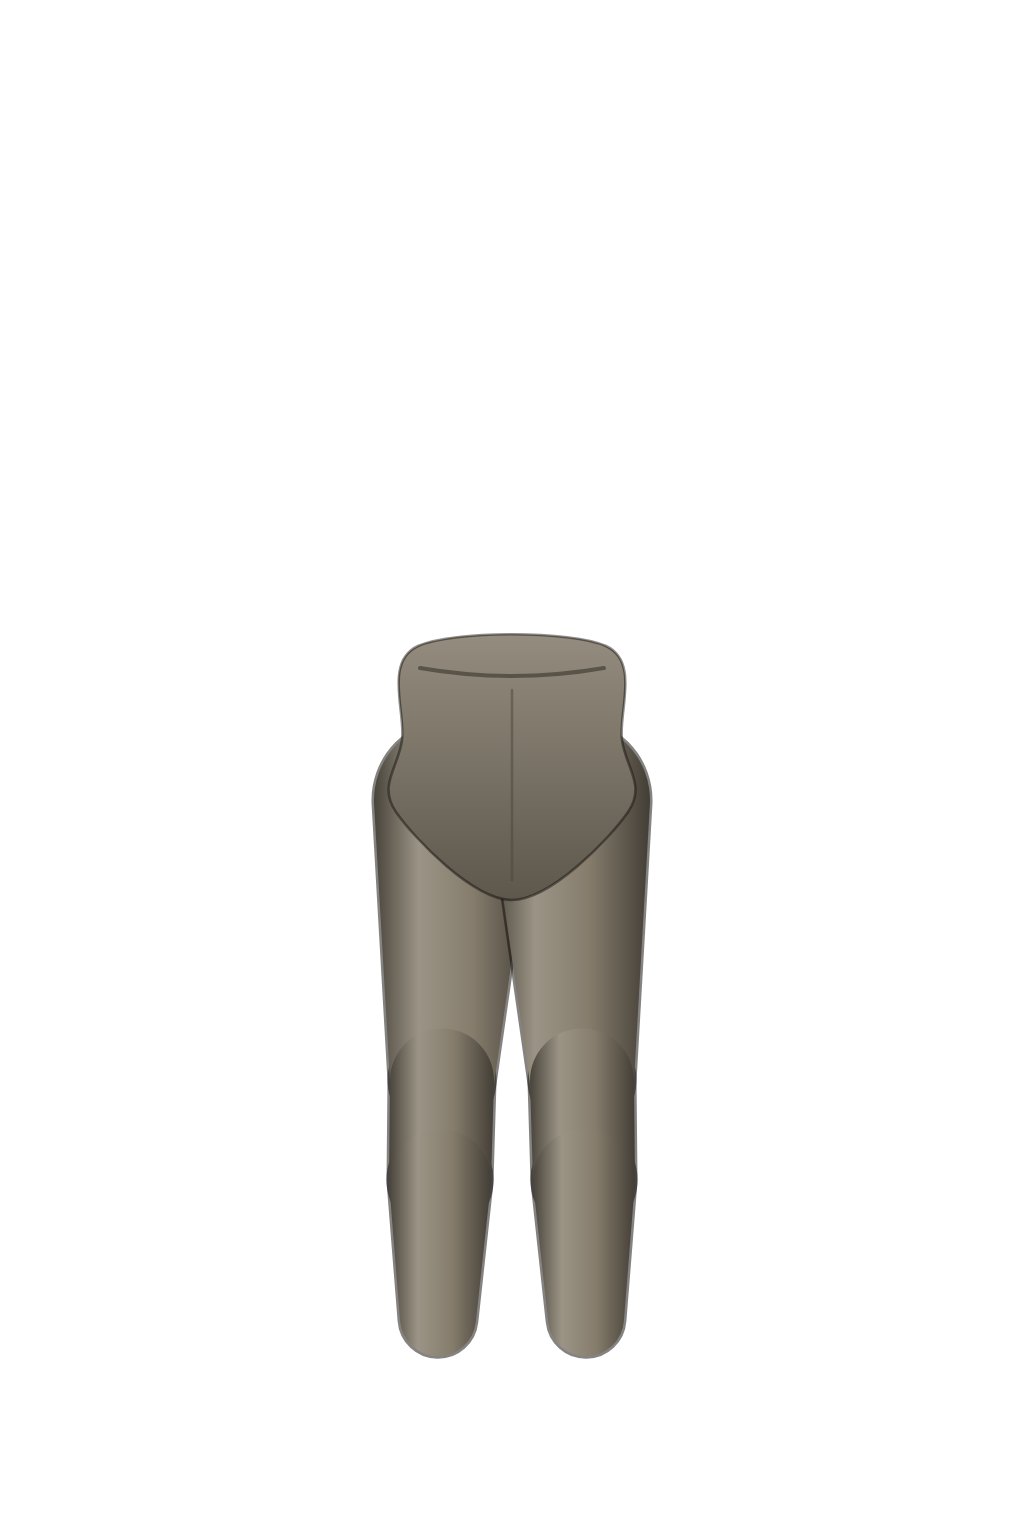
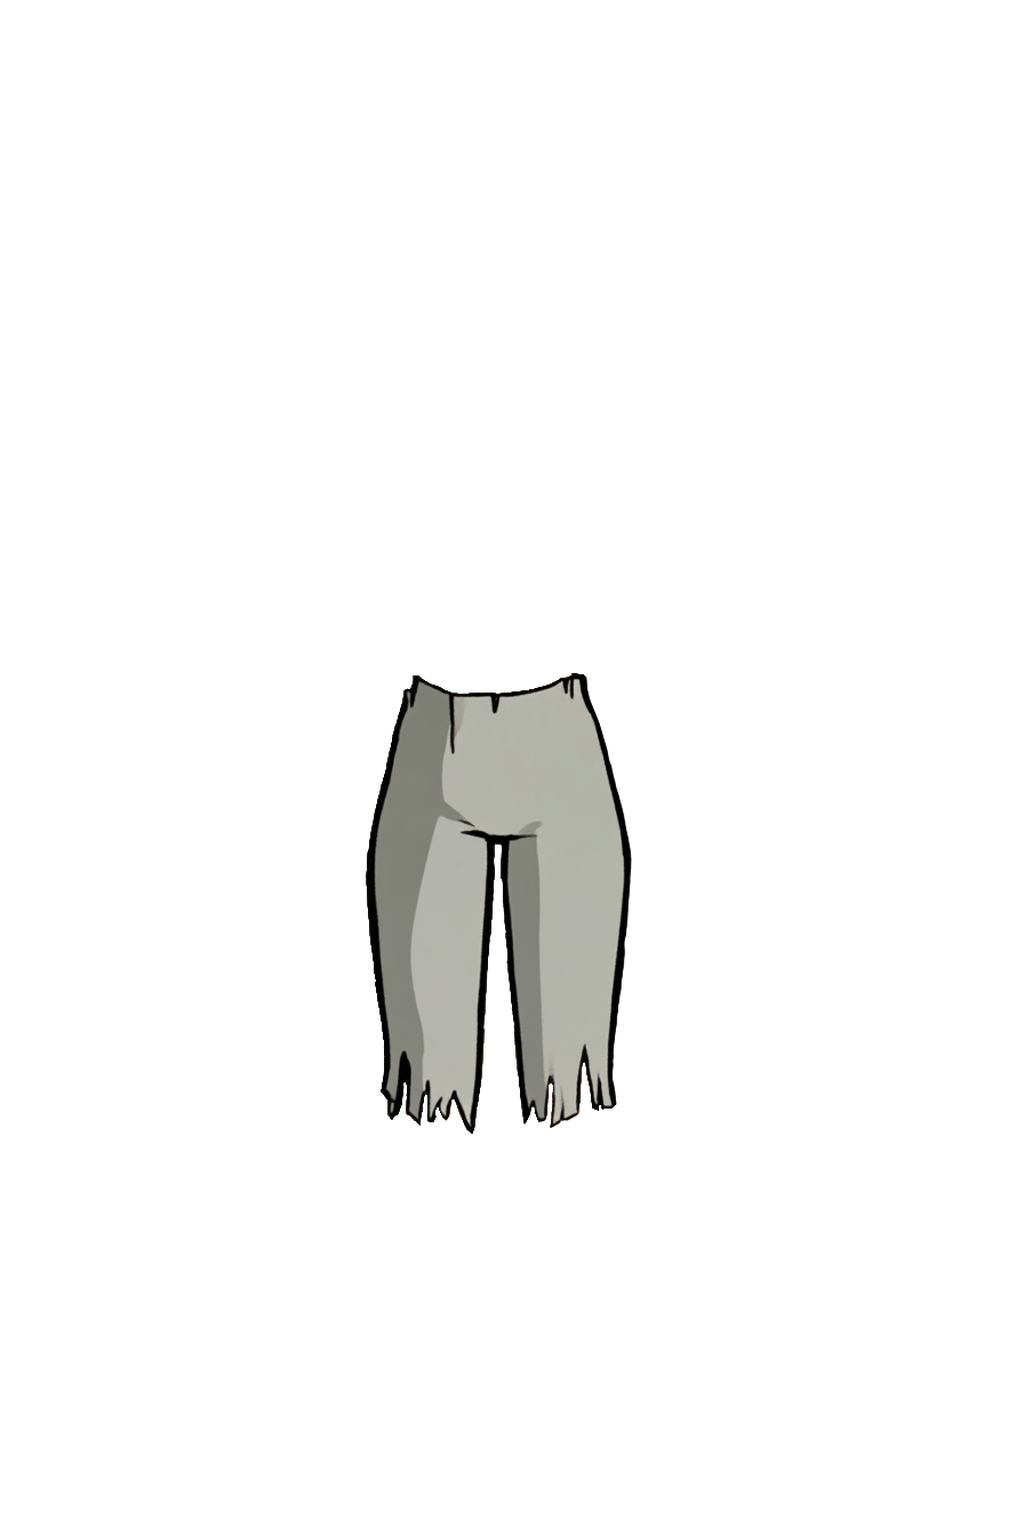
Envoy 3.6: the Envoy is a woman, drawn by the user
Her drawings replace the placeholder figure: the base figure, the
starter outfit (Leinenhemd, Leinenhose) and the new Griffhandschuhe,
the reward for the bridge. The layers were cleaned of stray specks and
scaled to 1024 x 1536; the icons are cut free from the same drawings.

The starter outfit is worn from the start (herkunft 'angezogen').
All placeholder layers and item icons are gone: an item without a
picture is worn but not drawn, and shows the symbol of its slot. The
converter lists missing pictures as hints and leaves their path empty.

Claude-Session: https://claude.ai/code/session_0117M4aYJ5RoPwj7oU8m6XcB

Changed region(s): [[0.3438, 0.4062, 0.6562, 0.9062]]

diff --git a/js/ui/parts.js b/js/ui/parts.js
@@ -1,7 +1,7 @@
 // Small building blocks used by several views.
 
 import { h, icon } from './dom.js';
-import { NAV_ICONS, RESOURCE_ICONS } from './icons.js';
+import { NAV_ICONS, RESOURCE_ICONS, SLOT_ICONS } from './icons.js';
 import { statEmblem, statInfo } from './stats.js';
 import { shield } from './shield.js';
 import { MATERIALS } from '../config.js';
@@ -70,7 +70,9 @@ export function staminaBar(st) {
     h('p', { class: 'stamina-note' }, refillText(st.hoursToFull)));
 }
 
+// The picture of a thing. Without one yet, the symbol of its slot.
 export function itemIcon(thing, className = 'item-icon') {
+  if (!thing.icon) return thing.slot ? icon(SLOT_ICONS[thing.slot], `${className} item-glyph`) : h('span', { class: className });
   return h('img', { class: className, src: thing.icon, alt: '', decoding: 'async', onerror: (e) => { e.currentTarget.hidden = true; } });
 }
 

diff --git a/js/ui/paperdoll.js b/js/ui/paperdoll.js
@@ -1,6 +1,7 @@
 // The figure: transparent layers of identical size stacked on top of each
 // other. Only worn items are drawn; an item whose requirement is no longer
 // met has already been taken off, so the slot shows the base figure.
+// An item without a picture yet is worn but not drawn.
 
 import { h } from './dom.js';
 import { SLOTS, BASE_FIGURE_LAYER, BASE_FIGURE_FILE } from '../config.js';
@@ -10,7 +11,7 @@ export function paperdoll(equipped, world, catalog, { className = '' } = {}) {
   for (const slot of SLOTS) {
     const entry = world.items[equipped[slot.id]];
     const item = entry && catalog.itemById.get(entry.id);
-    if (item) layers.push({ layer: slot.layer, src: item.figur, slot: slot.id });
+    if (item?.figur) layers.push({ layer: slot.layer, src: item.figur, slot: slot.id });
   }
   layers.sort((a, b) => a.layer - b.layer);
 

diff --git a/js/world/worldstate.js b/js/world/worldstate.js
@@ -48,9 +48,14 @@ export function initialWorld(catalog, startTime, stats) {
     reports: [],
     dropped: [],
   };
-  for (const item of catalog.equipment.filter((i) => i.herkunft.includes('start'))) {
+  // The start outfit (herkunft `angezogen`) is worn from the beginning,
+  // other start things (`start`) lie in the backpack.
+  for (const item of catalog.equipment) {
+    const worn = item.herkunft.includes('angezogen');
+    if (!worn && !item.herkunft.includes('start')) continue;
     const inst = `start:${item.id}`;
-    world.items[inst] = { inst, kind: 'item', id: item.id, where: 'rucksack', got: startTime };
+    world.items[inst] = { inst, kind: 'item', id: item.id, where: worn ? 'body' : 'rucksack', got: startTime };
+    if (worn) world.equipped[item.slot] = inst;
   }
   return world;
 }

diff --git a/css/envoy.css b/css/envoy.css
@@ -845,6 +845,8 @@ button.task-check:hover { color: var(--stat); }
 }
 .slot-frame .item-icon { width: 50px; height: 50px; }
 .slot-glyph { width: 26px; height: 26px; color: #37535b; --engrave: rgba(4, 12, 14, 0.6); }
+.item-glyph { display: grid; place-items: center; padding: 18%; color: var(--teal); --engrave: rgba(4, 12, 14, 0.6); }
+.item-glyph svg { width: 100%; height: 100%; }
 .slot.filled .slot-frame { box-shadow: inset 0 2px 6px rgba(0, 0, 0, 0.7), inset 0 0 0 1px rgba(236, 222, 196, 0.18), 0 1px 0 rgba(244, 236, 222, 0.04); }
 .slot-label { max-width: 64px; font-size: 9px; letter-spacing: 0.1em; line-height: 1.1; text-align: center; text-transform: uppercase; color: var(--muted); }
 .facts { margin: 0; display: grid; }

diff --git a/js/config.js b/js/config.js
@@ -1,7 +1,7 @@
 // Fixed values of the game. Everything the rules depend on lives here,
 // so it can be checked in one place against docs/spezifikation.md.
 
-export const APP_VERSION = '3.5.0';
+export const APP_VERSION = '3.6.0';
 
 // The four stats, in display order. `area` is the real-life daily task.
 export const STATS = [

diff --git a/sw.js b/sw.js
@@ -2,7 +2,7 @@
 // Network first, so a new version on the server is used right away;
 // if the network does not answer in time, the stored copy is used.
 
-const CACHE = 'envoy-v9';
+const CACHE = 'envoy-v10';
 const NETWORK_TIMEOUT_MS = 3500;
 
 self.addEventListener('install', () => self.skipWaiting());

diff --git a/tools/convert_data.py b/tools/convert_data.py
@@ -35,7 +35,7 @@ SLOTS = ["umhang", "beine", "schuhe", "torso", "handschuhe", "kopf"]
 MEASUREMENTS = ["strecke_km", "stockwerke", "haltezeit_s", "wiederholungen", "dauer_min"]
 EFFECTS = ["schaden", "treffer", "ausweichen", "beruhigen", "reise", "erholung", "glueck"]
 FURNITURE_EFFECTS = ["erholung", "glueck"]
-ORIGINS = ["start", "haendler", "beute", "quest"]
+ORIGINS = ["start", "angezogen", "haendler", "beute", "quest"]
 PLACE_TYPES = ["lager", "wild", "sammeln", "ort", "hoehle"]
 QUEST_KINDS = ["sammeln", "erkunden", "kampf", "hoehle", "bauen"]
 FEATURES = ["zuhause", "haendler"]
@@ -119,16 +119,19 @@ def png_size(path):
     return struct.unpack(">II", head[16:24])
 
 
+# Returns the path the app uses, or "" when the picture does not exist yet:
+# then the app draws nothing for it and shows the symbol of the slot.
 def check_picture(report, row, kind, filename):
     folder, size = PICTURES[kind]
     path = ROOT / folder / filename
     if not path.exists():
-        report.warn(row, f"Bild fehlt: {folder}/{filename}")
-        return
+        report.warn(row, f"Bild fehlt noch: {folder}/{filename}")
+        return ""
     if path.suffix.lower() == ".png":
         actual = png_size(path)
         if actual != size:
             report.warn(row, f"{filename} ist {actual[0]} × {actual[1]}, erwartet {size[0]} × {size[1]}")
+    return f"{folder}/{filename}"
 
 
 # --- small languages used in cells -----------------------------------------
@@ -403,8 +406,8 @@ def convert_equipment(path):
 
         figure = text(r.get("datei_figur", "")) or f"{slot}_{slug(name)}_{level}.png"
         icon = text(r.get("datei_icon", "")) or f"icon_{figure}"
-        check_picture(report, row, "figur", figure)
-        check_picture(report, row, "icon", icon)
+        figure_path = check_picture(report, row, "figur", figure)
+        icon_path = check_picture(report, row, "icon", icon)
 
         items.append({
             "id": item_id,
@@ -416,8 +419,8 @@ def convert_equipment(path):
             "effekt": parse_effects(report, row, r.get("effekt", ""), EFFECTS),
             "herkunft": parse_origin(report, row, r.get("herkunft", "")),
             "preis": price,
-            "figur": f"{PICTURES['figur'][0]}/{figure}",
-            "icon": f"{PICTURES['icon'][0]}/{icon}",
+            "figur": figure_path,
+            "icon": icon_path,
         })
     return {"equipment": items}, report
 
@@ -478,7 +481,7 @@ def convert_world(path, item_ids):
         if fid is None:
             continue
         icon = text(r.get("datei_icon", "")) or f"icon_einrichtung_{fid}.png"
-        check_picture(report, row, "icon", icon)
+        icon_path = check_picture(report, row, "icon", icon)
         min_tier = whole_number(r.get("ab_stufe", "")) or 1
         furniture.append({
             "id": fid, "name": text(r.get("name", "")),
@@ -487,7 +490,7 @@ def convert_world(path, item_ids):
             "preis": whole_number(r.get("preis", "")) or 0,
             "abStufe": min_tier if isinstance(min_tier, int) else 1,
             "text": text(r.get("beschreibung", "")),
-            "icon": f"{PICTURES['icon'][0]}/{icon}",
+            "icon": icon_path,
         })
 
     home = []

diff --git a/docs/spezifikation.md b/docs/spezifikation.md
@@ -236,7 +236,7 @@ Quest beginnen kann, bringt immer etwas zurück.
 
 Jede Unternehmung ist eine Expedition vom Lager aus: Hinweg, die Arbeit vor Ort,
 Rückweg. Alle drei Teile dauern echte Minuten; eine dreiteilige Leiste zeigt, wo der
-Envoy gerade ist und wann er zurück ist. Auf der Karte wandert seine Marke den Weg
+Envoy gerade ist und wann die Expedition endet. Auf der Karte wandert seine Marke den Weg
 entlang. Es läuft immer nur eine Expedition.
 
 **Zeit folgt Ausdauer: Jeder Punkt Ausdauer ist eine Minute unterwegs.** Was lange
@@ -446,7 +446,23 @@ Ebenenreihenfolge (hinten nach vorn): 1 Umhang hinten, 2 Basisfigur (Körper, Ko
 Grundkleidung), 3 Beinkleidung, 4 Schuhe, 5 Torso, 6 Handwickel, 7 Frisur /
 Kopfbedeckung.
 
-Icons sind eigenständige, stilisierte Ansichten, 256 × 256 px, transparent. Weitere
+**Der Envoy ist eine Frau**, bisher die einzige Figur: gezeichnet im Comicstil mit
+schwarzer Kontur, blondes Haar im Dutt, graue Unterwäsche als Grundkleidung. Alle
+Bilder der Figur und der Ausrüstung stammen von der Nutzerin.
+
+**Startoutfit:** Leinenhemd und Leinenhose, ohne Voraussetzung und ohne Fähigkeit. Der
+Envoy trägt sie von Anfang an (Herkunft `angezogen`). Handwickel und Bastsandalen liegen
+beim Start im Rucksack (Herkunft `start`). Die Griffhandschuhe sind die Belohnung für
+die Brücke über die Schlucht.
+
+**Teile ohne Bild:** Fehlt die Ebene eines Teils noch, wird es getragen, aber nicht
+gezeichnet; fehlt sein Icon, zeigt die App das Symbol des Slots. Die Umwandlung listet
+fehlende Bilder als Hinweis, ohne abzubrechen. Sobald eine Datei mit dem Namen aus der
+Tabelle da ist, erscheint sie.
+
+Icons sind eigenständige, stilisierte Ansichten, 256 × 256 px, transparent. Solange es
+für Leinenhemd, Leinenhose und Griffhandschuhe keine eigenen Icons gibt, sind ihre Icons
+aus den Zeichnungen der Ebenen freigestellt. Weitere
 Bilder: Monster 512 × 512, Zuhause-Stufen 1200 × 800, Karte im Seitenverhältnis 3:2
 (`assets/welt/karte.jpg`). Die Orte auf der Karte liegen über dem Bild (Position in
 Prozent aus `welt.xlsx`), ein neues Kartenbild braucht also nur passende Koordinaten.

diff --git a/README.md b/README.md
@@ -81,8 +81,11 @@ Auf dem Mac geht es auch direkt: im Projektordner `python3 tools/convert_data.py
 | Karte | `assets/welt/karte.jpg` | Seitenverhältnis 3:2, z. B. 2400 × 1600 |
 | App-Symbol | `assets/app/` | 180, 192, 512, dazu `icon-maskable-512.png` mit mehr Rand für runde Masken |
 
-Alle mitgelieferten Bilder sind Platzhalter. Neue Bilder mit gleichem Namen ersetzen
-sie einfach. Die Umwandlung meldet fehlende Bilder und falsche Maße. Bei einer neuen
+Die Figur des Envoy und ihre Kleidung sind eigene Zeichnungen. Für Ausrüstung ohne
+Bild gibt es keine Platzhalter: Das Teil wird getragen, aber nicht gezeichnet, und als
+Icon steht das Symbol des Slots. Ein neues Bild mit dem Namen aus der Tabelle erscheint
+sofort. Die Umwandlung meldet fehlende Bilder und falsche Maße als Hinweis. Karte,
+Zuhause, Monster und Einrichtung sind noch vorläufige Bilder. Bei einer neuen
 Karte die Positionen der Orte (x, y in Prozent) in `welt.xlsx` anpassen.
 
 ## Aufbau

diff --git a/CLAUDE.md b/CLAUDE.md
@@ -144,6 +144,10 @@ Icons sind eigenständige Grafiken, 256 × 256, nicht aus der Figurenebene gesch
 Wird die Voraussetzung eines getragenen Teils unterschritten, fliegt es aus dem Slot
 und wird **nicht mehr gerendert** — die Figur sieht dort aus, als trüge sie nichts.
 
+Der Envoy ist eine Frau, bisher die einzige Figur. Figur und Ausrüstung zeichnet die
+Nutzerin; keine eigenen Platzhalter für die Figur oder Ausrüstung erzeugen. Teile ohne
+Bild werden nicht gezeichnet, als Icon dient das Slot-Symbol.
+
 Dateinamen: `slot_name_stufe.png`, Icons mit Präfix `icon_`.
 
 Weitere Bilder: Monster `assets/monster/<id>.png` (512 × 512), Zuhause
